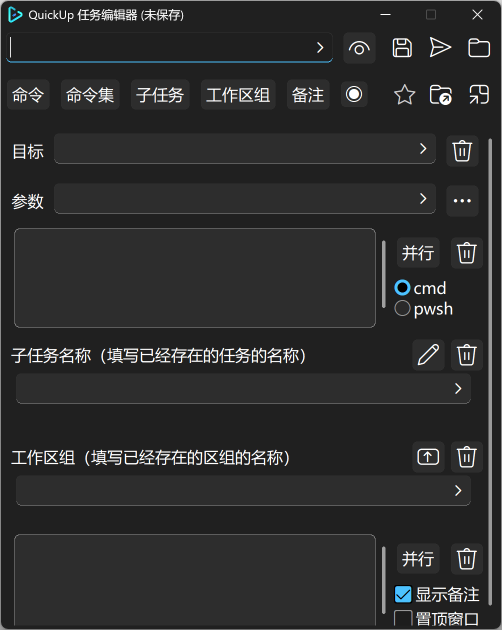
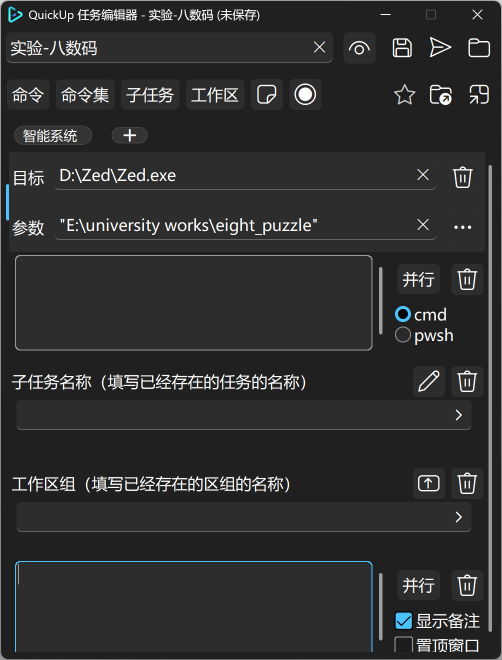
update 4.7

diff --git a/docs/_posts/2026-5-10-labels-system.md b/docs/_posts/2026-5-10-labels-system.md
@@ -1,0 +1,23 @@
+---
+layout: post
+title: labels system
+published: True
+---
+
+# 标签管理系统
+
+QuickUp在4.7版本提供标签管理系统，在标签管理窗口中，可以添加、删除、修改已有标签，且查看特定标签关联的若干任务。
+
+在任务编辑窗口中，可以为一个任务添加若干已有标签。这些标签不存储在任务文件里，而是单独存储在`{workspace}/labels.txt`，以`json`格式保存并由标签管理系统窗口维护，因此虽然两处修改后可能产生名称不同的情况，但标签系统仍应当是稳定正确的。
+
+目前，QuickUp不提供对标签以及标签下任务的顺序保证和顺序修改功能，如有需要，可以自行小心修改。
+
+---
+
+# Labels Management System
+
+In version 4.7 of QuickUp, a labels management system is provided. In the labels management window, you can add, delete, and modify existing tags, and view several tasks associated with a specific tag.
+
+In the task editing window, several existing labels can be added to a task. These labels are not stored in the task file but are separately saved in `{workspace}/labels.txt` in `json` format and maintained by the labels management window. Therefore, although there may be different names after the two modifications, the label system should still be stable and correct.
+
+Currently, QuickUp does not provide any guarantee or modification function for the order of labels and the tasks within the labels. If such functionality is needed, it can be modified manually by the user.

diff --git a/docs/_posts/2026-5-9-editable-shortcut.md b/docs/_posts/2026-5-9-editable-shortcut.md
@@ -1,0 +1,19 @@
+---
+layout: post
+title: editable shortcut
+published: True
+---
+
+# 快捷键修改
+
+QuickUp在4.7版本中提供了一种可以更改**部分**快捷键的方式。
+
+在配置文件`~/.QuickUp/config-advanced.json`的`shortcuts`下，可以对允许的窗口及其对应功能的快捷键进行更改，目前给出的所有功能就是能够修改快捷键的功能，所有快捷键为tkinter快捷键形式，且存放在对应列表中，也就是一个功能可以对应多个快捷键。
+
+---
+
+# Shortcut Key Modification
+
+In version 4.7, QuickUp offers a way to change **certain** shortcut keys.
+
+In the `shortcuts` section of the configuration file `~/.QuickUp/config-advanced.json`, you can change the shortcut keys for the allowed windows and their corresponding functions. Currently, all the provided functions are those that can be modified of the shortcut keys. All the shortcut keys are in the form of tkinter shortcut keys and are stored in the corresponding list, meaning that one function can correspond to multiple shortcut keys.

diff --git a/docs/_pages/document-en.md b/docs/_pages/document-en.md
@@ -10,10 +10,10 @@ permalink: /document-en/
 
 The top bar of main window:
 
-- task-search-entry: enter the name of the task to search for similar tasks. The fuzzy search algorithm in this part is the Longest Common Subsequence Algorithm, implemented by `./cppextend/quickfuzz.h `.
+- task-search-entry: enter the name of the task to search for similar tasks. The fuzzy search algorithm in this part is implemented by `./cppextend/quickfuzz.h `.
 - add-button: click it to show a new-task editor window. Then you can create a new task throw this it.
+- label-button: open the label management window.
 - setting-button: click it to show setting window of QuickUp.
-- about-button: click it to show some information about QuickUp.
 
 The tasks-list-view of main window:
 
@@ -94,6 +94,10 @@ The top bar of editor window:
     - threading-mode: as default, to show this tip with a sub-thread. Turn on to wait until the window is closed.
     - show-button: click to show this tip in a window, or nothing will happen.
     - top-button: whether to top the tip information window.
+    
+  - record: record the location and status of the currently open application window and write into task.
+  
+- labels-bar: add several existing tags to the task.
 
 > Any action of edit will change the status of editor window into "unsaved". In this status, the window can't be closed until user chooses whether to save it or not.
 >
@@ -191,6 +195,14 @@ In this page, user can see all shortcut keys that QuickUp supports.
 ![](/assets/images/selector.png)
 
 When there are multiple workspaces and QuickUp is awakened using a hotkey, this window will be displayed for selection. Currently, up to the first 10 workspaces are supported.
+
+---
+
+# Labels Management
+
+![](/assets/images/labelsmng.png)
+
+On the left side, all existing labels are displayed, which can be deleted or modified; on the right side, all tasks associated with the corresponding labels are listed. At the bottom, you can use the refresh or add label buttons.
 
 ---
 

diff --git a/docs/_pages/document.md b/docs/_pages/document.md
@@ -9,10 +9,10 @@ permalink: /document/
 
 主窗口顶部工具栏：
 
-- 任务搜索框：输入任务的名字来搜索相似任务。该部分的模糊搜索算法为最长公共子序列算法（LCS），由`./cppextend/quickfuzz.h`实现。
+- 任务搜索框：输入任务的名字来搜索相似任务。该部分的模糊搜索算法由`./cppextend/quickfuzz.h`实现。
 - 添加按钮：添加一个新的任务并用编辑窗口打开。
+- 标签按钮：打开标签管理窗口。
 - 设置按钮：打开设置窗口。
-- 关于按钮：打开关于窗口。
 
 任务列表：
 
@@ -93,6 +93,10 @@ permalink: /document/
     - 并行按钮：该任务是并行还是单线运行。如果是单线运行，则该任务会等待该应用结束后才继续运行。
     - 显示按钮：是否以窗口形式显示该备注。
     - 置顶按钮：是否置顶备注信息窗口。
+    
+  - 记录：记录当前打开的应用窗口位置与状态并写入任务。
+  
+- 标签栏：为该任务添加已有若干标签。
 
 > 任何修改任务条目的操作均会将编辑窗口的状态改为“未保存”，在这个状态下，窗口无法关闭，直到保存成功。
 >
@@ -184,6 +188,14 @@ QuickUp将在注册表`HKEY_LOCAL_MACHINE\Software\Microsoft\Windows\CurrentVers
 ![](/assets/images/selector.png)
 
 当存在多个工作区，并且使用热键唤醒QuickUp时，将显示此窗口进行选择。目前最多支持前10个工作区。
+
+---
+
+# 标签管理
+
+![](/assets/images/labelsmng.png)
+
+左侧列出现存所有标签，可以删除或修改；右侧列出对应标签关联的所有任务。底部还可以使用刷新或添加标签按钮。
 
 ---
 

diff --git a/docs/_pages/about.md b/docs/_pages/about.md
@@ -63,6 +63,14 @@ QuickUp is a simple and lightweight tool that helps you start working, studying 
 - 可尝试调整运行任务应用的窗口位置和尺寸。
 
   Try adjusting the position and size of the window from the task application is running.
+  
+- 为任务添加标签。
+
+  Add tags to tasks.
+
+- 记录当前已打开的应用窗口并写入任务。
+
+- Record the currently open application window and add to the task.
 
 ……
 